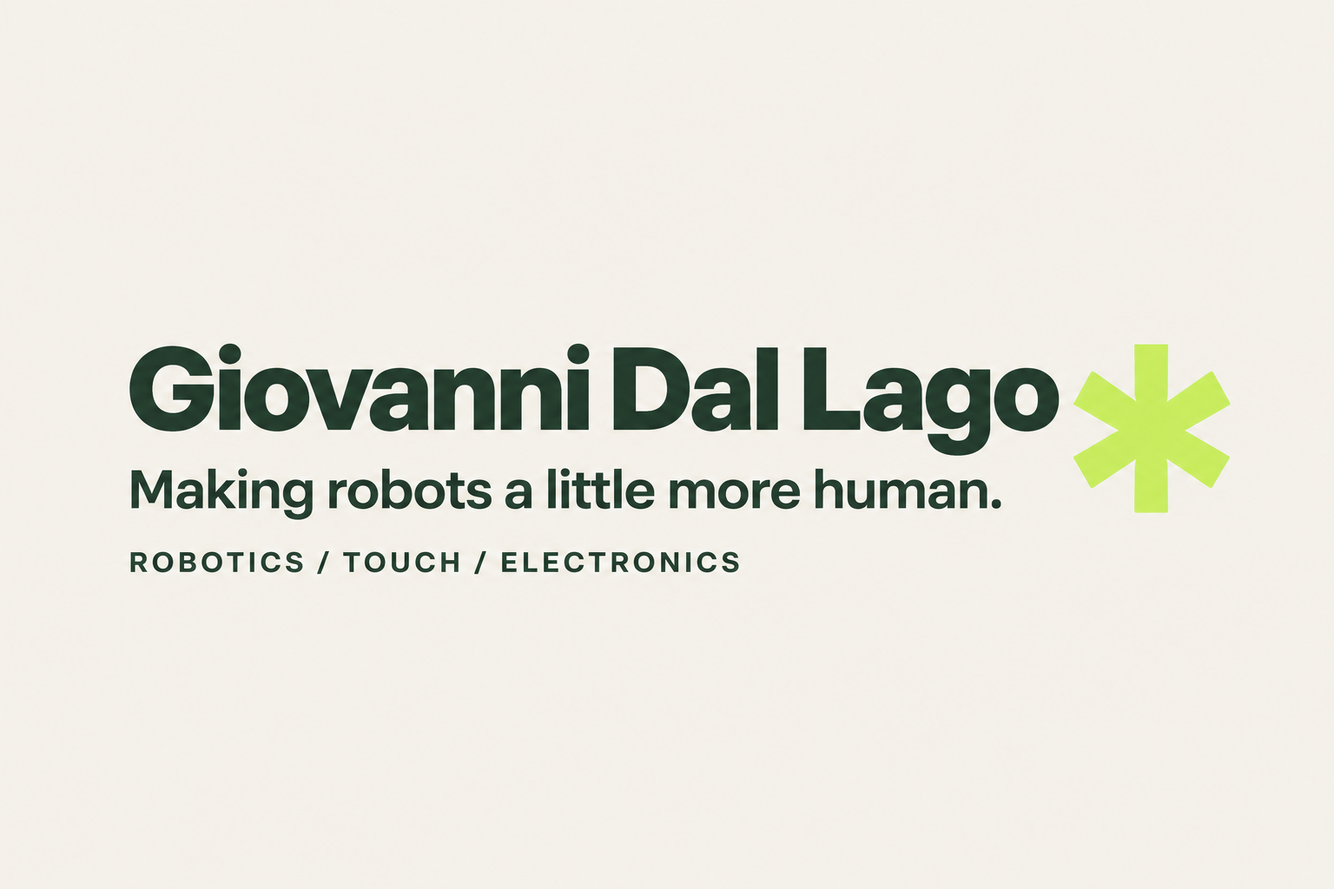
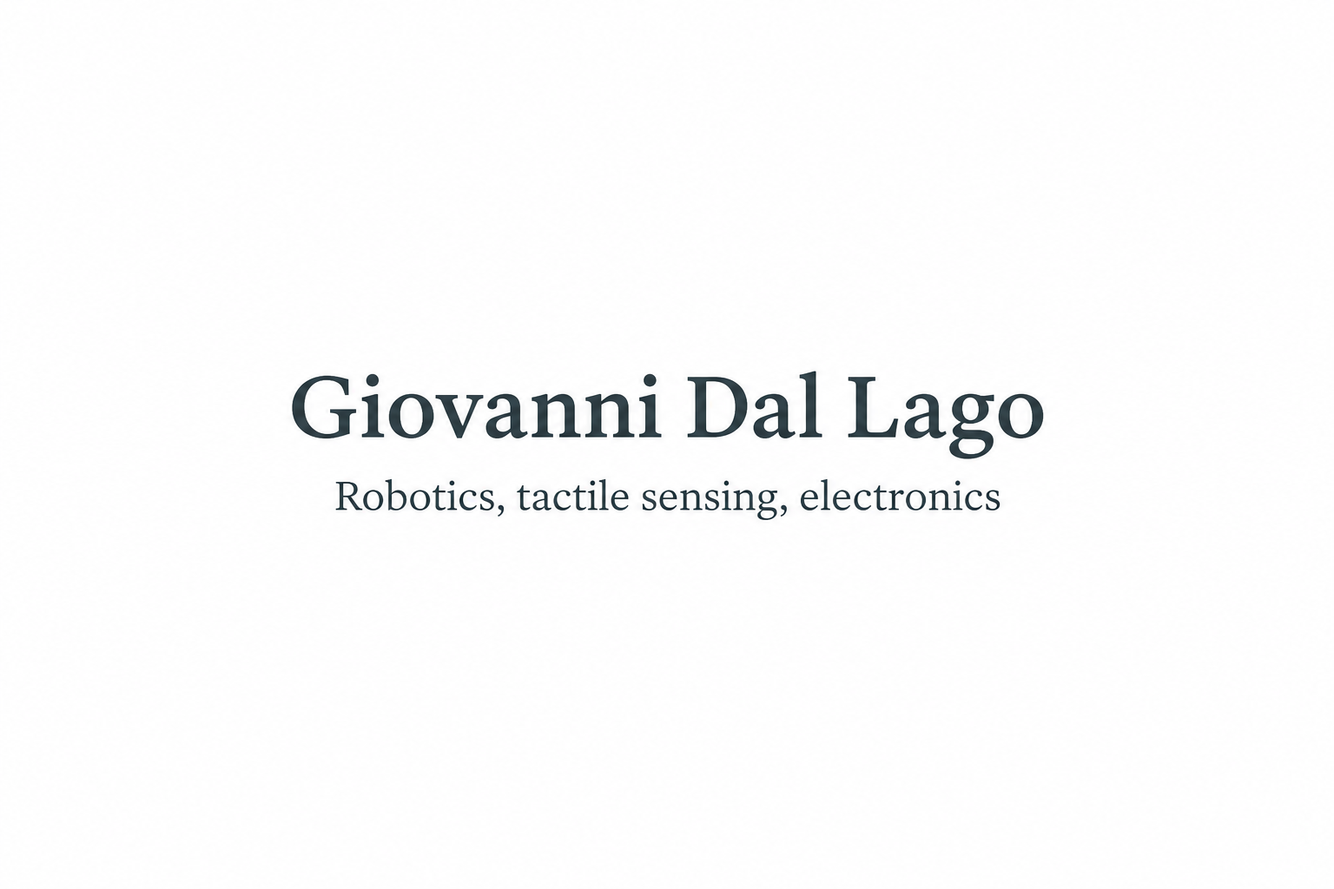
Simplify portfolio into a quiet serif personal website

Changed region(s): [[0.0938, 0.375, 0.9375, 0.6562]]

diff --git a/app/globals.css b/app/globals.css
@@ -1,2 +1,69 @@
-@import url('https://fonts.googleapis.com/css2?family=DM+Sans:wght@400;450;500;600;650;700&family=Space+Grotesk:wght@400;500;600;700&display=swap');
-:root{--paper:#f4f2eb;--ink:#242720;--muted:#62655b;--line:#d9dbce;--lime:#d3f366;--green:#243e31}*{box-sizing:border-box}html{scroll-behavior:smooth;scroll-padding-top:30px}body{margin:0;background:var(--paper);color:var(--ink);font-family:'DM Sans',sans-serif;-webkit-font-smoothing:antialiased}a{color:inherit;text-decoration:none}button{font:inherit}a,button{-webkit-tap-highlight-color:transparent}a:focus-visible,button:focus-visible{outline:3px solid #6a8621;outline-offset:6px}::selection{background:var(--lime)}header,main,footer{max-width:1600px;margin:auto}header{height:110px;padding:0 6%;display:flex;justify-content:space-between;align-items:center;border-bottom:1px solid var(--line)}.wordmark{font-family:'Space Grotesk',sans-serif;font-size:42px;letter-spacing:-4px;font-weight:700}.wordmark span{font-size:13px;letter-spacing:0;vertical-align:top;display:inline-block;margin:9px 0 0 6px}nav{display:flex;align-items:center;gap:36px;font-size:14px}.nav-contact{border:1px solid var(--ink);border-radius:50px;padding:12px 20px}nav a:hover,.text-link:hover{opacity:.65}.hero{padding:44px 6% 0;position:relative;overflow:hidden}.hero-top{display:flex;justify-content:space-between}.eyebrow{font-family:'Space Grotesk',sans-serif;font-size:11px;font-weight:500;letter-spacing:1.4px;line-height:1.6;text-transform:uppercase}.eyebrow i{display:inline-block;background:#748a46;width:7px;height:7px;border-radius:50%;margin-right:9px}.hero h1{position:relative;font-family:'Space Grotesk',sans-serif;font-size:clamp(55px,7.9vw,118px);line-height:1.02;letter-spacing:-7px;font-weight:500;margin:64px 0 39px;max-width:1200px}.hero h1 em{font-family:Georgia,serif;font-weight:400;letter-spacing:-6px}.asterisk{font-family:Arial,sans-serif;font-size:130px;color:#79994c;position:absolute;right:3%;top:-15px;transform:rotate(15deg)}.hero-bottom{display:flex;align-items:center;gap:40px;padding:0 0 50px}.hero-bottom p{font-size:18px;line-height:1.6;margin:0}.round-link{height:48px;width:48px;border-radius:50%;border:1px solid #b6bcaa;display:grid;place-items:center;font-size:24px;transition:background .2s}.round-link:hover{background:var(--lime)}.hero-note{margin-left:auto;font-size:10px;line-height:1.8;letter-spacing:1.5px}.hero-strip{margin:0 -6.82%;padding:21px 6%;display:flex;justify-content:space-between;gap:16px;align-items:center;background:var(--lime);font-family:'Space Grotesk',sans-serif;font-size:13px;letter-spacing:2px}.hero-strip b{font-size:20px;font-weight:400}.section{padding:100px 6%}.intro{display:grid;grid-template-columns:1fr 2fr;gap:48px;border-bottom:1px solid var(--line)}h2{font-family:'Space Grotesk',sans-serif;letter-spacing:-2.3px;font-size:clamp(32px,3.5vw,52px);line-height:1.13;font-weight:500;margin:0 0 28px}.intro p{font-size:17px;line-height:1.8;max-width:630px;color:var(--muted)}.credentials{display:flex;gap:50px;margin-top:35px;padding-top:26px;border-top:1px solid var(--line);font-size:14px}.credentials small{display:block;margin-top:8px;font-size:11px;color:var(--muted);line-height:1.6}.section-heading{display:flex;align-items:end;justify-content:space-between;gap:25px;margin-bottom:42px}.section-heading .index{display:block;margin-bottom:24px}.section-heading h2{margin:0}.text-link{font-size:13px;border-bottom:1px solid currentColor;padding-bottom:6px;display:inline-block}.focus-grid{display:grid;grid-template-columns:repeat(3,1fr);border-top:1px solid var(--line);border-bottom:1px solid var(--line);margin-bottom:42px}.focus-grid article{padding:30px 26px 30px 0}.focus-grid article+article{border-left:1px solid var(--line);padding-left:30px}.focus-icon{font-size:32px;font-weight:400;display:block;margin-bottom:25px;color:#6e844b}h3{font-family:'Space Grotesk',sans-serif;font-weight:500;font-size:24px;letter-spacing:-.8px;margin:0 0 12px}.focus-grid p,.project-copy p{font-size:14px;line-height:1.7;color:var(--muted);margin:0;max-width:280px}.project-grid{display:grid;grid-template-columns:1fr 1fr;gap:30px}.project-art{position:relative;height:360px;overflow:hidden;background:#dde1d5}.project-art.vision{background:#dddcd4}.project-art img{height:100%;width:100%;object-fit:cover;transition:transform .5s}.project:hover img{transform:scale(1.025)}.project-no{position:absolute;left:22px;top:22px;font-size:10px;letter-spacing:1.5px;background:var(--paper);padding:7px 10px}.art-arrow{position:absolute;right:20px;bottom:20px;background:var(--paper);width:40px;height:40px;display:grid;place-items:center;border-radius:50%;font-size:24px}.project-copy{padding:24px 0}.project-copy .eyebrow{font-size:9px;letter-spacing:1px;color:var(--muted)}.project-copy h3{margin:12px 0}.project-copy p{max-width:100%}.hand{background-color:#e0e5d7;background-image:linear-gradient(#75866b16 1px,transparent 1px),linear-gradient(90deg,#75866b16 1px,transparent 1px);background-size:25px 25px}.grip-art{width:240px;height:250px;position:absolute;left:50%;top:54%;transform:translate(-50%,-50%) rotate(-12deg)}.grip-palm{position:absolute;left:74px;top:134px;width:105px;height:87px;background:#334f3a;border:5px solid #587357;border-radius:18px 18px 30px 30px;box-shadow:8px 10px 0 #203c3026}.grip-palm:after{content:'GDL / 01';position:absolute;left:15px;bottom:20px;color:#d3f366;font-family:monospace;font-size:10px}.grip-finger{position:absolute;width:33px;height:132px;background:repeating-linear-gradient(0deg,#344e38 0 34px,#a9b799 35px 39px);border:4px solid #557051;border-radius:18px;z-index:2;box-shadow:5px 4px 0 #203c3020}.f1{left:69px;top:25px;transform:rotate(-13deg)}.f2{left:115px;top:6px}.f3{left:158px;top:33px;transform:rotate(15deg)}.grip-object{position:absolute;width:66px;height:66px;border-radius:50%;background:var(--lime);left:183px;top:104px;box-shadow:inset -10px -10px 0 #b5cd56}.art-caption{position:absolute;bottom:20px;left:22px;font-size:9px;line-height:1.7;letter-spacing:1.3px;color:#52624b}.physics-note{border-top:1px solid var(--line);margin-top:30px;padding-top:28px;display:flex;gap:25px;align-items:center}.physics-star{font-size:40px;color:#6e844b}.physics-note p{font-size:13px;line-height:1.8;max-width:650px;margin:0;color:var(--muted)}.physics-note strong{color:var(--ink)}.physics-note>.eyebrow{margin-left:auto;font-size:9px;white-space:nowrap}.human{background:#e9ebdf}.handwritten{font-family:Georgia,serif;font-style:italic;transform:rotate(-6deg);font-size:24px;color:#697a4e;margin-right:20px}.personal-grid{display:grid;grid-template-columns:1.12fr 1fr;gap:30px}.astreo-card,.music-card{background:var(--paper);overflow:hidden}.astreo-photo{height:290px;position:relative;overflow:hidden}.astreo-photo img{width:100%;height:100%;object-fit:cover;transition:transform .5s}.astreo-card:hover img{transform:scale(1.03)}.astreo-photo>span{position:absolute;bottom:18px;left:22px;background:var(--paper);padding:8px 10px;font-size:9px;letter-spacing:1.3px}.personal-copy{padding:32px}.personal-copy>.eyebrow{color:var(--muted);font-size:10px}.personal-copy h3{font-size:34px;line-height:1.13;letter-spacing:-1.3px;margin:18px 0}.personal-copy p{font-size:14px;line-height:1.8;color:var(--muted);max-width:380px;margin-bottom:25px}.music-card{display:flex;flex-direction:column;justify-content:space-between;position:relative;background:#d4ddbf}.record{flex-shrink:0;width:250px;height:250px;border-radius:50%;margin:30px auto 0;background:repeating-radial-gradient(circle,#2a2c27 0 2px,#353831 3px 4px);display:grid;place-items:center;box-shadow:12px 14px 22px #1e311a20;position:relative}.record:after{content:'';width:7px;height:7px;border-radius:50%;background:var(--paper);position:absolute;left:calc(50% - 3.5px);top:calc(50% - 3.5px)}.record-label{background:var(--lime);width:96px;height:96px;border-radius:50%;text-align:center;padding-top:14px;font-family:'Space Grotesk',sans-serif;font-weight:600;font-size:27px;line-height:1.2}.record-label small{font-size:9px;letter-spacing:2px;display:block;margin-top:21px}.record-button{background:none;border-width:0 0 1px;cursor:pointer;padding-left:0;padding-right:0}.music-caption{display:block;font-size:8px;letter-spacing:1.2px;margin-top:16px;color:var(--muted)}.spinning{animation:spin 7s linear infinite}@keyframes spin{to{transform:rotate(360deg)}}.contact{background:var(--green);color:var(--paper)}.contact>.eyebrow{color:#c3d0b5}.contact h2{font-size:clamp(42px,6.3vw,90px);letter-spacing:-4px;margin:37px 0}.contact h2 em{font-family:Georgia,serif;font-weight:400;color:var(--lime)}.contact-link{font-size:28px;border-bottom:1px solid #7a8c6e;padding-bottom:18px;display:flex;justify-content:space-between;max-width:350px}.contact-link span{color:var(--lime)}.contact-footer{display:flex;justify-content:space-between;margin-top:62px;font-size:13px;line-height:1.8;color:#c0c9b9}.contact-footer a{align-self:end;border-bottom:1px solid #7a8c6e}footer{display:flex;justify-content:space-between;gap:20px;padding:28px 6%;font-size:10px;color:var(--muted)}.skip{position:absolute;top:-100px;z-index:10;background:var(--lime);padding:16px}.skip:focus{top:0}@media(min-width:1600px){.hero h1{font-size:118px}}@media(max-width:1000px){.hero h1{letter-spacing:-4px}.hero h1 em{letter-spacing:-4px}.asterisk{font-size:95px;right:0}.intro{grid-template-columns:1fr 2fr;gap:25px}.project-art{height:290px}.physics-note>.eyebrow{display:none}.record{width:210px;height:210px}.personal-copy{padding:26px}.astreo-photo{height:240px}}@media(max-width:650px){header{height:82px;padding:0 6%}.wordmark{font-size:35px}nav{gap:18px;font-size:11px}.nav-contact{padding:9px 12px}.hero{padding-top:30px}.location{font-size:8px;letter-spacing:.4px}.hero-top .eyebrow{font-size:9px}.hero h1{font-size:clamp(42px,9.5vw,62px);letter-spacing:-2.8px;margin:54px 0 27px;line-height:1.08}.hero h1 em{letter-spacing:-3px}.asterisk{font-size:57px;top:-35px;right:4px}.hero-bottom{gap:20px;justify-content:space-between;padding-bottom:36px}.hero-bottom p{font-size:14px}.hero-note{display:none}.round-link{width:40px;height:40px;flex-shrink:0}.hero-strip{gap:8px;flex-wrap:wrap;font-size:8px;letter-spacing:.8px;padding-top:17px;padding-bottom:17px}.hero-strip b{font-size:12px}.section{padding:62px 6%}.intro{grid-template-columns:1fr;gap:27px}.intro p{font-size:15px}.credentials{gap:22px;justify-content:space-between;font-size:12px}.credentials small{font-size:9px}h2{font-size:32px;letter-spacing:-1.5px}.section-heading{gap:15px;margin-bottom:30px}.section-heading .index{margin-bottom:18px}.section-heading>.text-link{font-size:10px;white-space:nowrap}.focus-grid{grid-template-columns:1fr}.focus-grid article,.focus-grid article+article{border:0;padding:22px 0;display:grid;grid-template-columns:45px 1fr;column-gap:15px}.focus-grid article+article{border-top:1px solid var(--line)}.focus-icon{grid-row:1/3;margin:0}.focus-grid h3{font-size:21px}.focus-grid p{max-width:100%;font-size:13px}.project-grid{grid-template-columns:1fr;gap:25px}.project-art{height:320px}.project-copy h3{font-size:24px}.physics-note{gap:14px}.physics-note p{font-size:12px}.handwritten{display:none}.personal-grid{grid-template-columns:1fr}.astreo-photo{height:260px}.personal-copy h3{font-size:32px}.music-card{display:grid;grid-template-columns:1fr 1.4fr;align-items:center}.record{width:150px;height:150px;margin:25px 0 25px -23px}.record-label{width:72px;height:72px;font-size:20px;padding-top:9px}.record-label small{margin-top:16px;font-size:7px}.music-card .personal-copy{padding:26px 20px 26px 0}.music-card h3{font-size:26px}.music-card p{font-size:12px}.contact h2{font-size:45px;letter-spacing:-2.4px}.contact-footer{flex-direction:column;gap:25px;margin-top:40px}.contact-footer a{align-self:start}footer{font-size:9px;flex-wrap:wrap;gap:15px}footer>span:nth-child(2){display:none}}@media(prefers-reduced-motion:reduce){html{scroll-behavior:auto}*,*:before,*:after{animation:none!important;transition:none!important}}
+:root {
+  color-scheme: light;
+  --text: #252525;
+  --heading: #35464d;
+  --muted: #777;
+  --line: #e9e9e9;
+}
+
+*, *::before, *::after { box-sizing: border-box; }
+html { scroll-behavior: smooth; }
+body {
+  margin: 0;
+  min-height: 100vh;
+  display: flex;
+  flex-direction: column;
+  background: #fff;
+  color: var(--text);
+  font-family: Georgia, 'Times New Roman', serif;
+  font-size: 17px;
+  line-height: 1.75;
+  -webkit-font-smoothing: antialiased;
+}
+a { color: var(--heading); text-underline-offset: 3px; text-decoration-thickness: 1px; }
+a:hover { color: #000; }
+a:focus-visible { outline: 2px solid #6a808c; outline-offset: 5px; }
+.site-header {
+  padding: 25px 32px 58px;
+  display: flex;
+  align-items: baseline;
+  justify-content: space-between;
+  gap: 25px;
+}
+.name { color: var(--text); font-size: 23px; white-space: nowrap; text-decoration: none; }
+nav { display: flex; gap: 28px; font-size: 16px; }
+nav a { color: var(--muted); text-decoration: none; white-space: nowrap; }
+nav a[aria-current='page'], nav a:hover { color: var(--text); }
+.page { width: 100%; max-width: 780px; margin: 0 auto; padding: 0 26px; flex: 1; }
+h1, h2, h3 { font-weight: 400; line-height: 1.4; color: var(--heading); }
+h1 { font-size: 29px; margin: 0 0 20px; }
+h2 { font-size: 23px; margin: 36px 0 11px; }
+h3 { font-size: 19px; margin: 24px 0 9px; }
+p { margin: 0 0 19px; }
+.when { color: var(--muted); font-size: 15px; display: inline-block; margin-left: 8px; }
+.home-links { display: flex; gap: 13px; margin-top: 29px; font-size: 15px; }
+.home-links span { color: #a1a1a1; }
+figure { max-width: 640px; margin: 30px auto; }
+.portrait { max-width: 340px; }
+figure img { display: block; width: 100%; height: auto; }
+figcaption { text-align: center; font-size: 13px; color: var(--muted); margin-top: 9px; line-height: 1.6; }
+.first-heading { margin-top: 24px; }
+.site-footer { display: flex; justify-content: center; gap: 28px; padding: 55px 24px 30px; font-size: 14px; }
+.site-footer a { color: var(--muted); text-decoration: none; }
+.site-footer a:hover { color: var(--text); text-decoration: underline; }
+.skip { position: absolute; top: -100px; left: 12px; background: white; padding: 8px; }
+.skip:focus { top: 8px; }
+::selection { background: #e3e9ec; }
+@media (max-width: 620px) {
+  body { font-size: 16px; line-height: 1.75; }
+  .site-header { padding: 21px 22px 38px; flex-wrap: wrap; gap: 13px; }
+  .name { font-size: 21px; }
+  nav { font-size: 14px; gap: 21px; }
+  .page { padding: 0 22px; }
+  h1 { font-size: 26px; }
+  h2 { font-size: 22px; }
+  .when { margin-left: 0; display: block; margin-top: 3px; }
+  .site-footer { padding-top: 40px; }
+}
+@media (prefers-reduced-motion: reduce) { html { scroll-behavior: auto; } }
+@media print { .site-header nav, .site-footer, .home-links { display: none; } .page { max-width: none; } a { color: inherit; text-decoration: none; } }

diff --git a/app/page.tsx b/app/page.tsx
@@ -1,35 +1,18 @@
-'use client';
-
-import { useState } from 'react';
-
-const projects = [
-  { n: '01', title: 'A hand that knows when to stop.', category: 'ROBOTIC HAND · PERSONAL PROJECT', text: 'A tendon-driven hand. Custom electronics. A grasp that responds to pressure.', href: 'https://github.com/gioda954/Robotics_hand', kind: 'hand' },
-  { n: '02', title: 'From seeing to picking.', category: 'ROBOTIC MANIPULATION · PERSONAL PROJECT', text: 'Teaching a robot to find an object, reach for it, and put it where it belongs.', href: 'https://github.com/gioda954/Vision_based_manipulator', kind: 'vision' },
-];
+import Link from 'next/link';
+import Navigation from './components/navigation';
+import Footer from './components/footer';
 
 export default function Home() {
-  const [pressed, setPressed] = useState(false);
   return <>
-    <a className="skip" href="#main">Skip to content</a>
-    <header><a className="wordmark" href="#">gdl<span>✳</span></a><nav aria-label="Main navigation"><a href="#work">Work</a><a href="#human">Off the bench</a><a href="mailto:gdallago@calpoly.edu" className="nav-contact">Say ciao ↗</a></nav></header>
-    <main id="main">
-      <section className="hero">
-        <div className="hero-top"><span className="eyebrow"><i /> Giovanni Dal Lago</span><span className="eyebrow location">Italian roots. California chapter.</span></div>
-        <h1>Making robots<br/>a little more <em>human.</em><span className="asterisk" aria-hidden="true">✳</span></h1>
-        <div className="hero-bottom"><p>I build the electronics that let robots move,<br className="desktop"/> feel, and get a grip on the real world.</p><a className="round-link" href="#work" aria-label="Explore my work">↓</a><span className="hero-note">ENGINEER. BUILDER.<br/>STILL ASKING WHY.</span></div>
-        <div className="hero-strip"><span>ROBOTICS</span><b>＋</b><span>TACTILE SENSING</span><b>＋</b><span>MANIPULATION</span><b>＋</b><span>ELECTRONICS</span></div>
-      </section>
-      <section className="intro section" id="about"><span className="eyebrow index">01 / THE SHORT VERSION</span><div><h2>From a physics question<br/>to something you can hold.</h2><p>Physics got me started. Building things made me stay. These days, I work on robotic hands at Foundation Robotics and research touch for manipulation with UC Berkeley’s Khanna Lab.</p><p>I like being close to the hardware. Sketch it, build it, test it. Then figure out what I missed.</p><div className="credentials"><span>Cal Poly <small>M.S. Electrical Engineering · Summa Cum Laude</small></span><span>Politecnico di Milano <small>B.Sc. Engineering Physics</small></span></div></div></section>
-      <section className="section work" id="work"><div className="section-heading"><div><span className="eyebrow index">02 / AT THE WORKBENCH</span><h2>Touch. Move. Repeat.</h2></div><a className="text-link" href="https://github.com/gioda954" target="_blank" rel="noopener noreferrer">My GitHub ↗</a></div>
-        <div className="focus-grid"><article><span className="focus-icon" aria-hidden="true">✳</span><h3>A sense of touch.</h3><p>Tactile sensing that helps robots understand what’s in their hands.</p></article><article><span className="focus-icon" aria-hidden="true">↗</span><h3>Built to move.</h3><p>Electronics, embedded systems, and control for robotic manipulation.</p></article><article><span className="focus-icon" aria-hidden="true">⌁</span><h3>Ideas into hardware.</h3><p>From the first circuit to a working prototype on the bench.</p></article></div>
-        <div className="project-grid">{projects.map(p=><a className="project" key={p.n} href={p.href} target="_blank" rel="noopener noreferrer"><div className={`project-art ${p.kind}`}>{p.kind==='hand'?<div className="grip-art" aria-hidden="true"><div className="grip-finger f1"/><div className="grip-finger f2"/><div className="grip-finger f3"/><div className="grip-palm"/><div className="grip-object"/></div>:<img src="/robot.png" alt="My vision-based robotic manipulator on the workbench" loading="lazy"/>}<span className="project-no">{p.n} / PERSONAL BUILD</span><span className="art-arrow" aria-hidden="true">↗</span>{p.kind==='hand'&&<span className="art-caption">GRASP / RELEASE / LEARN<br/>CONCEPTUAL SKETCH</span>}</div><div className="project-copy"><span className="eyebrow">{p.category}</span><h3>{p.title}</h3><p>{p.text}</p></div></a>)}</div>
-        <div className="physics-note"><span className="physics-star" aria-hidden="true">↗</span><p><strong>A physics detour worth taking.</strong> National physics competition winner. Represented Italy at the International Physicists’ Tournament, with a team finish of 7th worldwide.</p><span className="eyebrow">ITALIAN TEAM / 2025</span></div>
-      </section>
-      <section className="human section" id="human"><div className="section-heading"><div><span className="eyebrow index">03 / OFF THE BENCH</span><h2>There’s a person<br/>behind the soldering iron.</h2></div><span className="handwritten">ciao, that’s me ↙</span></div>
-        <div className="personal-grid"><a className="astreo-card" href="https://astreo.org" target="_blank" rel="noopener noreferrer"><div className="astreo-photo"><img src="/astreo.jpg" alt="The grand piano donated through Astreo to the Morosini Naval School" loading="lazy"/><span>GOOD WINE. SOMETHING GOOD.</span></div><div className="personal-copy"><span className="eyebrow">ASTREO / GIVING BACK</span><h3>A bottle. A piano.<br/>A next chapter.</h3><p>With fellow Morosini alumni, I’m part of Astreo: wine with a purpose. Our first edition funded a grand piano for the school. The next supports a library for girls in India, with Anna4Children.</p><span className="text-link">Meet Astreo ↗</span></div></a>
-        <div className="music-card"><div className={`record ${pressed?'spinning':''}`} aria-hidden="true"><div className="record-label">gdl<br/><small>SIDE B</small></div></div><div className="personal-copy"><span className="eyebrow">THE SOUNDTRACK</span><h3>Usually, there’s<br/>music on.</h3><p>A little corner for what’s on repeat.<br/>The listening diary is coming soon.</p><button className="text-link record-button" onClick={()=>setPressed(!pressed)} aria-pressed={pressed}>{pressed?'Pause the record Ⅱ':'Give it a spin ↗'}</button><small className="music-caption">JUST A LITTLE SPIN. NO AUDIO.</small></div></div></div>
-      </section>
-      <section className="contact section" id="contact"><span className="eyebrow">04 / YOUR TURN</span><h2>Building something<br/><em>that should exist?</em></h2><a className="contact-link" href="mailto:gdallago@calpoly.edu">Let’s talk. <span>↗</span></a><div className="contact-footer"><span>Robots, research, or a good idea.<br/>My inbox is open.</span><a href="mailto:gdallago@calpoly.edu">gdallago@calpoly.edu</a></div></section>
-    </main><footer><span>© {new Date().getFullYear()} Giovanni Dal Lago</span><span>From Italy, with curiosity.</span><a href="#">Back to top ↑</a></footer>
+    <Navigation current="about" />
+    <main id="content" className="page about">
+      <h1>About</h1>
+      <p>I’m an electrical engineer working on robotic hands at Foundation Robotics in San Francisco. My work is in electronics, tactile sensing, and manipulation. I also do research on touch and hand tracking with UC Berkeley’s Khanna Lab.</p>
+      <p>I studied Engineering Physics at Politecnico di Milano and Electrical Engineering at Cal Poly, where I completed my master’s with summa cum laude.</p>
+      <p>I’m interested in how robots interact with the physical world, especially what they can learn through touch. I enjoy working across sensing, electronics, and control, and building the hardware to try things out.</p>
+      <p>Outside engineering, I’m part of <Link href="/elsewhere/">Astreo</Link>, a charity wine project started with friends from the Morosini Naval School in Venice.</p>
+      <p className="home-links"><Link href="/work/">Selected work</Link><span aria-hidden="true">·</span><a href="mailto:gdallago@calpoly.edu">Get in touch</a></p>
+    </main>
+    <Footer />
   </>;
 }

diff --git a/app/work/page.tsx b/app/work/page.tsx
@@ -1,0 +1,50 @@
+import type { Metadata } from 'next';
+import Image from 'next/image';
+import Navigation from '../components/navigation';
+import Footer from '../components/footer';
+
+export const metadata: Metadata = {
+  alternates: { canonical: '/work/' },
+  title: 'Work · Giovanni Dal Lago',
+  description: 'Electronics, tactile sensing, and robotic manipulation. Research and selected projects by Giovanni Dal Lago.',
+  openGraph: { title: 'Work · Giovanni Dal Lago', description: 'Electronics, tactile sensing, and robotic manipulation.', url: '/work/', images: [{ url: '/robot.png', width: 1524, height: 602, alt: 'Vision-based manipulation project' }] },
+  twitter: { title: 'Work · Giovanni Dal Lago', description: 'Electronics, tactile sensing, and robotic manipulation.', images: ['/robot.png'] },
+};
+
+export default function Work() {
+  return <>
+    <Navigation current="work" />
+    <main id="content" className="page">
+      <h1>Work</h1>
+      <p>My focus is robotic hands: the electronics that drive them, the sensors that give them a sense of touch, and the control that brings the two together.</p>
+      <section>
+        <h2>Foundation Robotics <span className="when">2026–present</span></h2>
+        <p>Electrical engineer on the hands team, working on electronics and tactile sensing for humanoid robotic hands.</p>
+      </section>
+      <section>
+        <h2>UC Berkeley, Khanna Lab</h2>
+        <p>Master’s thesis research on tactile sensing and hand tracking for robotic manipulation data collection.</p>
+      </section>
+      <section>
+        <h2>Earlier work</h2>
+        <p>At Politecnico di Milano, I worked on motor control and power electronics for an efficient electric vehicle. With the PhysisPEB student team, I designed electronics for a hydrogen-powered boat that competed at the Monaco Energy Boat Challenge.</p>
+      </section>
+      <section id="projects" className="projects">
+        <h2>Selected projects</h2>
+        <h3><a href="https://github.com/gioda954/Robotics_hand" target="_blank" rel="noopener noreferrer">Robotic hand</a></h3>
+        <p>A tendon-driven hand with custom electronics, motor control, and pressure feedback for grasping. A personal project exploring how contact sensing can guide a grasp.</p>
+        <h3><a href="https://github.com/gioda954/Vision_based_manipulator" target="_blank" rel="noopener noreferrer">Vision-based manipulation</a></h3>
+        <p>A pick-and-place system combining object detection, pose estimation, and robot control.</p>
+        <figure>
+          <Image src="/robot.png" alt="The vision-based manipulation project: a robot arm and camera on a workbench" width={1524} height={602} sizes="(max-width: 740px) 90vw, 640px" />
+          <figcaption>My vision-based manipulation project. <a href="https://youtu.be/cT57q7G10-s" target="_blank" rel="noopener noreferrer">Watch the demo</a>.</figcaption>
+        </figure>
+      </section>
+      <section>
+        <h2>Physics</h2>
+        <p>In 2025, my team won the Italian national physics competition and represented Italy at the International Physicists’ Tournament, finishing seventh worldwide.</p>
+      </section>
+    </main>
+    <Footer />
+  </>;
+}

diff --git a/app/elsewhere/page.tsx b/app/elsewhere/page.tsx
@@ -1,0 +1,33 @@
+import type { Metadata } from 'next';
+import Image from 'next/image';
+import Navigation from '../components/navigation';
+import Footer from '../components/footer';
+
+export const metadata: Metadata = {
+  alternates: { canonical: '/elsewhere/' },
+  title: 'Outside work · Giovanni Dal Lago',
+  description: 'Astreo, a charity wine project with friends from the Morosini Naval School in Venice.',
+  openGraph: { title: 'Outside work · Giovanni Dal Lago', description: 'Astreo, a charity wine project with friends from the Morosini Naval School in Venice.', url: '/elsewhere/', images: [{ url: '/astreo.jpg', alt: 'The piano donated through Astreo' }] },
+  twitter: { title: 'Outside work · Giovanni Dal Lago', description: 'Astreo, a charity wine project with friends from the Morosini Naval School in Venice.', images: ['/astreo.jpg'] },
+};
+
+export default function Elsewhere() {
+  return <>
+    <Navigation current="elsewhere" />
+    <main id="content" className="page">
+      <h1>Outside work</h1>
+      <section>
+        <h2 className="first-heading">Astreo</h2>
+        <p>In 2024, a group of us from the Morosini Naval School in Venice started <a href="https://astreo.org" target="_blank" rel="noopener noreferrer">Astreo</a>. We made a wine together, following it from the harvest to the label, and used the proceeds to give something back to our school.</p>
+        <p>The first edition funded a grand piano for the students’ music room.</p>
+        <figure className="portrait">
+          <Image src="/astreo.jpg" alt="The grand piano donated to the Morosini Naval School through Astreo" width={2880} height={5120} sizes="(max-width: 740px) 85vw, 340px" />
+          <figcaption>The piano at Morosini.</figcaption>
+        </figure>
+        <p>For the second edition, we’re raising funds for a library at a girls’ orphanage in India, in collaboration with Anna4Children.</p>
+        <p><a href="https://astreo.org" target="_blank" rel="noopener noreferrer">More about Astreo</a></p>
+      </section>
+    </main>
+    <Footer />
+  </>;
+}

diff --git a/app/layout.tsx b/app/layout.tsx
@@ -1,11 +1,22 @@
 import type { Metadata } from 'next';
 import './globals.css';
+
 export const metadata: Metadata = {
   metadataBase: new URL('https://gioda954.github.io'),
-  title: 'Giovanni Dal Lago — Robotics, Touch & Electronics',
-  description: 'I build the electronics that let robots move, feel, and get a grip on the real world. Giovanni Dal Lago — engineer, builder, Italian in California.',
-  openGraph: { title: 'Giovanni Dal Lago', description: 'Making robots a little more human. Robotics, tactile sensing, manipulation & electronics.', images: [{ url: '/og.png', width: 1536, height: 1024, alt: 'Giovanni Dal Lago — Making robots a little more human.' }], type: 'website', url: 'https://gioda954.github.io', },
-  twitter: { card: 'summary_large_image', title: 'Giovanni Dal Lago', description: 'Making robots a little more human.', images: ['/og.png'] },
+  title: 'Giovanni Dal Lago',
+  description: 'Electrical engineer working on robotic hands, tactile sensing, and manipulation. Based in California.',
+  alternates: { canonical: './' },
+  openGraph: {
+    title: 'Giovanni Dal Lago',
+    description: 'Electrical engineer. Robotics, tactile sensing, and manipulation.',
+    type: 'website',
+    url: 'https://gioda954.github.io',
+    images: [{ url: '/og.png', width: 1536, height: 1024, alt: 'Giovanni Dal Lago · Electrical engineer' }],
+  },
+  twitter: { card: 'summary_large_image', title: 'Giovanni Dal Lago', description: 'Electrical engineer. Robotics, tactile sensing, and manipulation.', images: ['/og.png'] },
   robots: { index: true, follow: true },
 };
-export default function RootLayout({children}: Readonly<{children: React.ReactNode}>) { return <html lang="en"><body>{children}</body></html>; }
+
+export default function RootLayout({ children }: Readonly<{ children: React.ReactNode }>) {
+  return <html lang="en"><body>{children}</body></html>;
+}

diff --git a/app/icon.tsx b/app/icon.tsx
@@ -2,4 +2,4 @@ import { ImageResponse } from 'next/og';
 export const size = { width: 64, height: 64 };
 export const contentType = 'image/png';
 export const dynamic = 'force-static';
-export default function Icon() { return new ImageResponse(<div style={{background:'#243e31',color:'#d3f366',width:'100%',height:'100%',display:'flex',alignItems:'center',justifyContent:'center',fontSize:30,fontWeight:700,letterSpacing:-2}}>gdl</div>,size); }
+export default function Icon() { return new ImageResponse(<div style={{ background: '#fff', color: '#35464d', width: '100%', height: '100%', display: 'flex', alignItems: 'center', justifyContent: 'center', fontSize: 29, fontFamily: 'serif' }}>gd</div>, size); }

diff --git a/app/components/navigation.tsx b/app/components/navigation.tsx
@@ -1,0 +1,15 @@
+import Link from 'next/link';
+
+export default function Navigation({ current }: { current: 'about' | 'work' | 'elsewhere' }) {
+  return <>
+    <a className="skip" href="#content">Skip to content</a>
+    <header className="site-header">
+      <Link className="name" href="/">Giovanni Dal Lago</Link>
+      <nav aria-label="Main navigation">
+        <Link href="/" aria-current={current === 'about' ? 'page' : undefined}>About</Link>
+        <Link href="/work/" aria-current={current === 'work' ? 'page' : undefined}>Work</Link>
+        <Link href="/elsewhere/" aria-current={current === 'elsewhere' ? 'page' : undefined}>Outside work</Link>
+      </nav>
+    </header>
+  </>;
+}

diff --git a/app/components/footer.tsx b/app/components/footer.tsx
@@ -1,0 +1,7 @@
+export default function Footer() {
+  return <footer className="site-footer" aria-label="Contact links">
+    <a href="mailto:gdallago@calpoly.edu">Email</a>
+    <a href="https://github.com/gioda954" target="_blank" rel="noopener noreferrer">GitHub</a>
+    <a href="https://astreo.org" target="_blank" rel="noopener noreferrer">Astreo</a>
+  </footer>;
+}

diff --git a/README.md b/README.md
@@ -1,15 +1,20 @@
 # Giovanni Dal Lago
-Personal portfolio: robotics, tactile sensing, manipulation, electronics, and life off the bench.
+Personal website about robotics, tactile sensing, electronics, and Astreo.
 
 ## Development
-`npm install` then `npm run dev`.
+`npm install` and `npm run dev`.
 
-## GitHub Pages
-`npm run build:github` exports the site to `out/`. Pushing main publishes it with GitHub Actions.
+## Publishing
+`npm run build:github` exports to `out/`. Pushing `main` publishes via GitHub Pages.
 
-## Content
-The site intentionally uses broad descriptions of professional work. Do not add private technical specifications, unpublished measurements, employer imagery, original application PDFs, or the original CV without review.
+## Pages
+- `/`: short biography
+- `/work/`: experience, research, and public projects
+- `/elsewhere/`: Astreo
 
-The robotic-hand visual is a conceptual CSS sketch, not employer hardware. The manipulator image comes from Giovanni's public project. The Astreo photo comes from astreo.org.
+## Content and privacy
+Professional work is described at a high level. Do not add unpublished specifications, employer imagery, application PDFs, or the original CV without review.
+The robot image comes from Giovanni's public project. The piano image comes from astreo.org. Navigation, body text, and imagery are intentionally kept simple.
 
-Music is intentionally a truthful empty state. The spinning record is decorative and does not play audio. To activate a listening diary, add a verified Last.fm username and fetch public recent listening with a scheduled GitHub Action; store any API key in GitHub Actions secrets, not browser code. Do not invent listening history.
+## Future music section
+Add a listening diary only after Giovanni supplies a verified Last.fm profile or music links. Do not publish invented taste, fake listening activity, or placeholder records. Last.fm can be fetched by a scheduled GitHub Action with the API key in Actions secrets; the public site should consume a static, sanitized JSON file.
